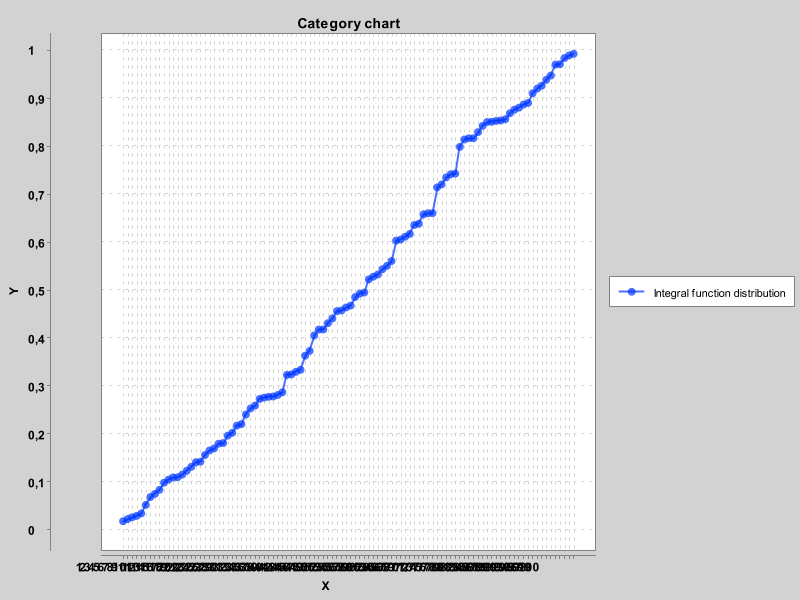
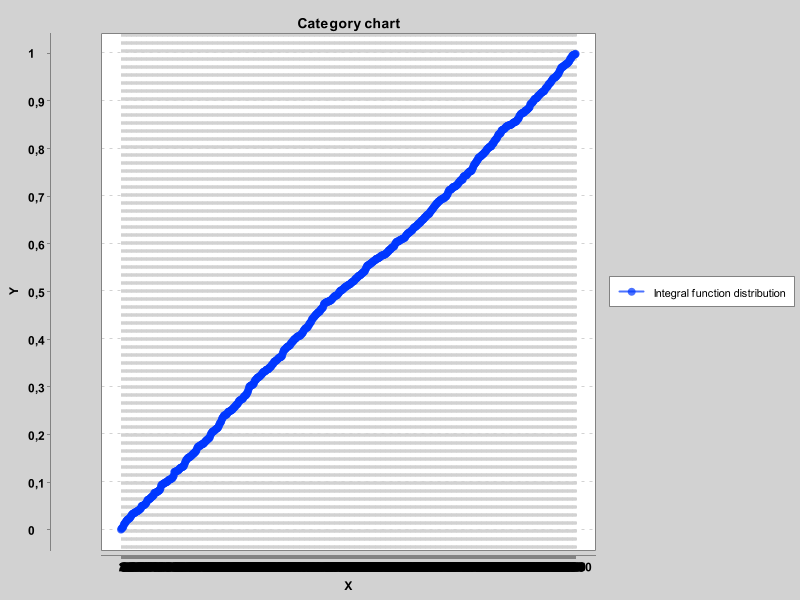
kek

diff --git a/src/main/java/lab1/LabOne.java b/src/main/java/lab1/LabOne.java
@@ -9,7 +9,7 @@ import static java.util.stream.Collectors.toList;
 
 public class LabOne {
 
-  private static final int N = 100;
+  private static final int N = 1000;
 
   public static void main(String[] args) throws IOException {
     List<Double> pseudoRandomList = getPseudoRandomList(N);
@@ -76,5 +76,4 @@ public class LabOne {
         ).boxed()
         .collect(toList());
   }
-
 }
